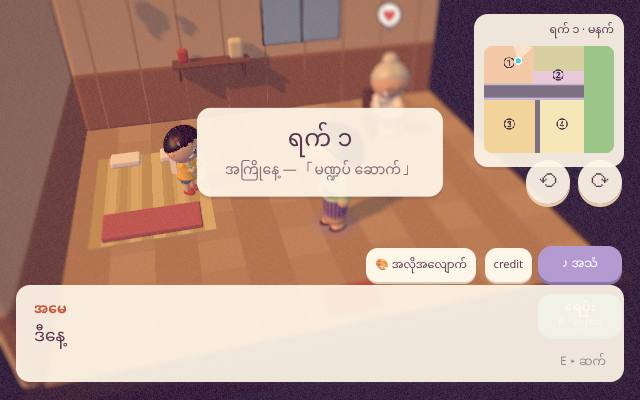
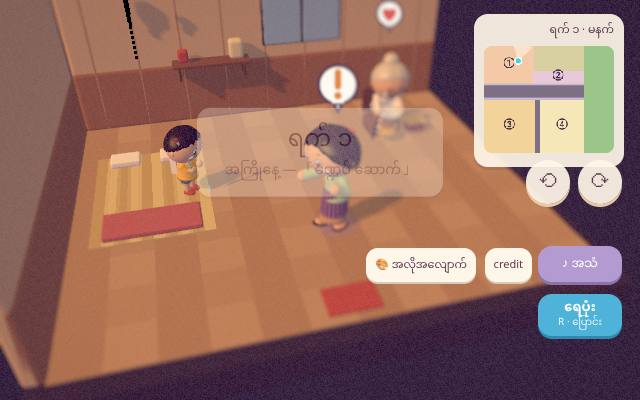
camera.js: when people block every try, take the one whose blocker stands furthest off the line (T10 review 1)
Claude-Session: https://claude.ai/code/session_017xuZq8H4cNKSMdBo5y4KvM

diff --git a/camera.js b/camera.js
@@ -107,7 +107,9 @@ export function createOrbit(cam, { base, min = 5, max = 24, az = 0, userMin = .6
     let p = 0; sh.why = null;
     const C = T.clone().addScaledVector(dir, d); seg.set(C, T); // someone's head near the line of view, in its near part (peopleK) or in front of the people talking, hides the shot
     let front = d; for (const q of subjects) front = Math.min(front, -q.clone().sub(C).dot(dir)); // how far the nearest of them is, along the view
-    for (const h of heads) { const t = seg.closestPointToPointParameter(h, true); if (seg.at(t, near).distanceTo(h) < TALK.peopleR && (t < TALK.peopleK || t * d < front - .4)) { sh.why = 'people'; return 1; } }
+    sh.clear = Infinity; // (blocked by people everywhere: the try whose blocker stands furthest off the line wins)
+    for (const h of heads) { const t = seg.closestPointToPointParameter(h, true), r = seg.at(t, near).distanceTo(h); if (r < TALK.peopleR && (t < TALK.peopleK || t * d < front - .4)) { sh.why = 'people'; sh.clear = Math.min(sh.clear, r); } }
+    if (sh.why === 'people') return 1;
     if (collide) { const hit = collide(T, C); if (hit !== null && hit < d) { p = Math.max(p, 1 - Math.max(0, hit - .3) / d); sh.why = 'wall'; } }
     if (room) { // a cut-away room (rooms.js): walls at x0 and z0 only; the camera stays in front of them and on the open half
       if (Math.abs(wrap(a - room.open)) > THREE.MathUtils.degToRad(TALK.roomSpan) + 1e-6) { sh.why = 'room'; return 1; }
@@ -138,7 +140,7 @@ export function createOrbit(cam, { base, min = 5, max = 24, az = 0, userMin = .6
     for (let i = 0; i < tries.length; i++) {
       const sh = shotOf(tries[i][0], S, L, tries[i][1], group, face);
       raise(fit(sh, room)); const p = pull(sh); if (pull0 === null) { pull0 = p; why0 = sh.why; }
-      if (!best || p < best.pull - 1e-3) best = { ...sh, pull: p, fallback: i, flip: tries[i][1] !== n };
+      if (!best || p < best.pull - 1e-3 || p - best.pull < 1e-3 && sh.clear > best.clear) best = { ...sh, pull: p, fallback: i, flip: tries[i][1] !== n };
       if (p <= TALK.pullMax) { best = { ...sh, pull: p, fallback: i, flip: tries[i][1] !== n }; break; }
     }
     return { ...best, side: n, pull0, why0 };
